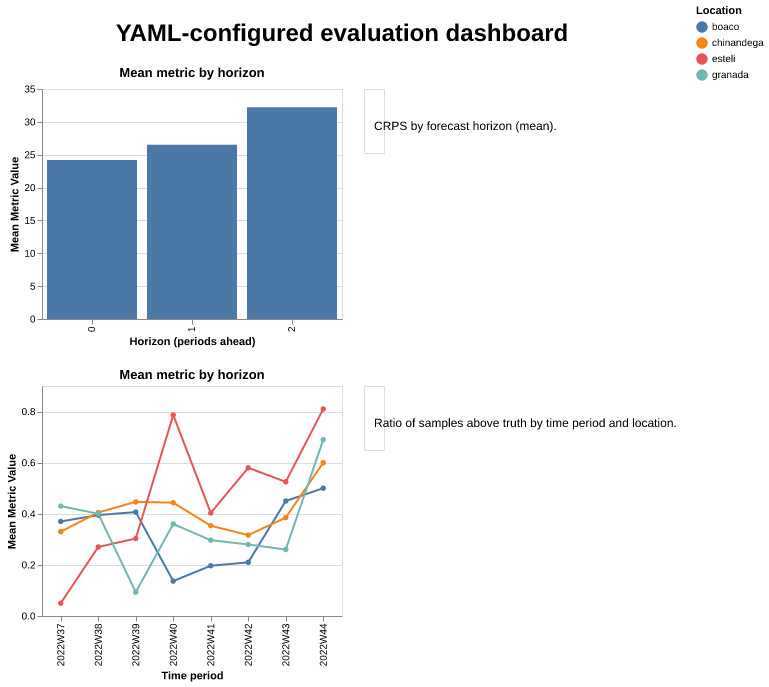
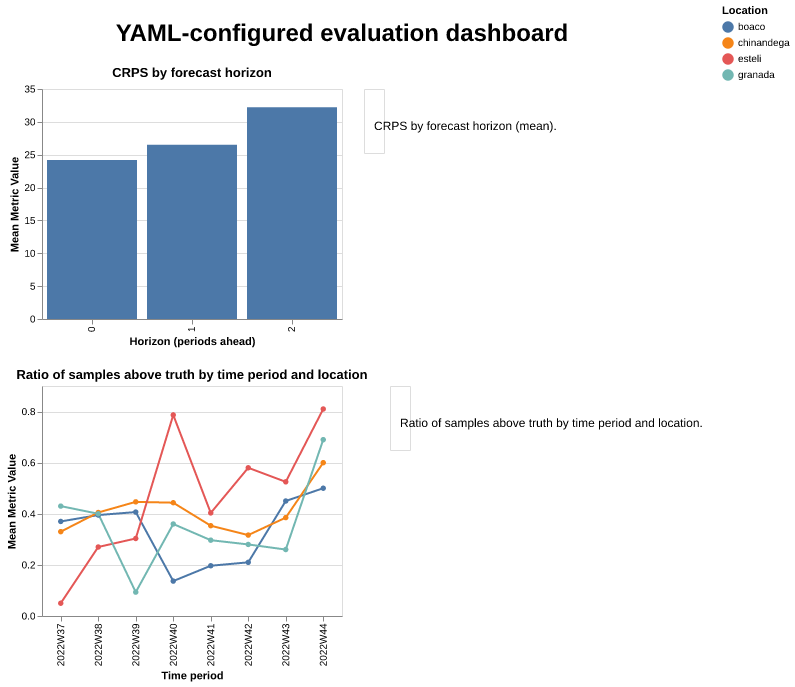
fix: name metrics in yaml dashboard titles and drop suffixes from ranking chart

diff --git a/run_results_experiment.py b/run_results_experiment.py
@@ -95,6 +95,7 @@ configuration:
           type: metric
           metric: crps
           plot_type: metric_by_horizon_mean
+          title: CRPS by forecast horizon
       - text:
           value: "CRPS by forecast horizon (mean)."
   - row:
@@ -102,6 +103,7 @@ configuration:
           type: metric
           metric: ratio_above_truth
           plot_type: metric_by_time_location_mean
+          title: Ratio of samples above truth by time period and location
       - text:
           value: "Ratio of samples above truth by time period and location."
 """
@@ -395,6 +397,11 @@ def save_chart(chart, stem: Path) -> None:
             logger.warning("PNG export failed for %s (%s); JSON spec still written", stem.name, exc)
 
 
+def _chart_label(display: str) -> str:
+    """Drop the family suffix, e.g. ' (bias)' or ' (calib.)', from a metric display name."""
+    return display.split(" (")[0]
+
+
 def build_ranking_reversal_chart(table: pd.DataFrame, model_names: list[str]):
     """Grouped bar of each model's rank (1 = best) per metric.
 
@@ -414,12 +421,12 @@ def build_ranking_reversal_chart(table: pd.DataFrame, model_names: list[str]):
         for rank, idx in enumerate(order, start=1):
             ranks[idx] = rank
         for m, rk in zip(model_names, ranks):
-            rows.append({"metric": r["_display"], "model": m, "rank": int(rk)})
+            rows.append({"metric": _chart_label(r["_display"]), "model": m, "rank": int(rk)})
     rank_df = pd.DataFrame(rows)
 
     # Order the facet columns to match the results table (accuracy -> bias ->
     # calibration -> peak), so the reversal (peak period lag) reads at the far right.
-    metric_order = table["_display"].tolist()
+    metric_order = [_chart_label(d) for d in table["_display"]]
 
     return (
         alt.Chart(rank_df)
